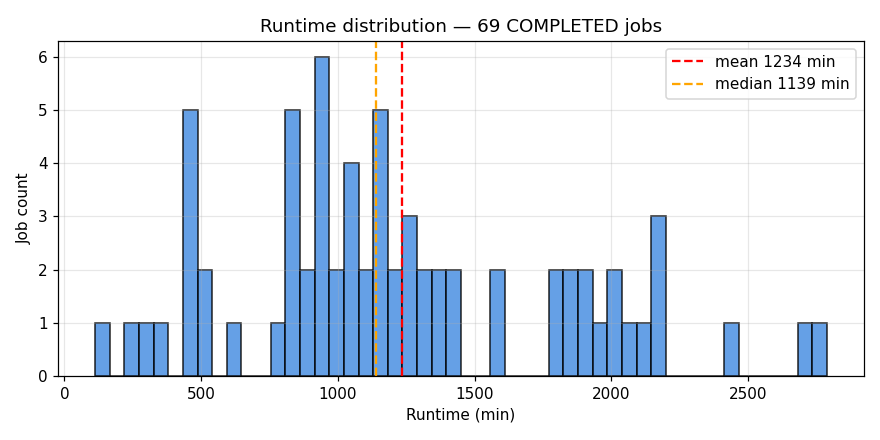
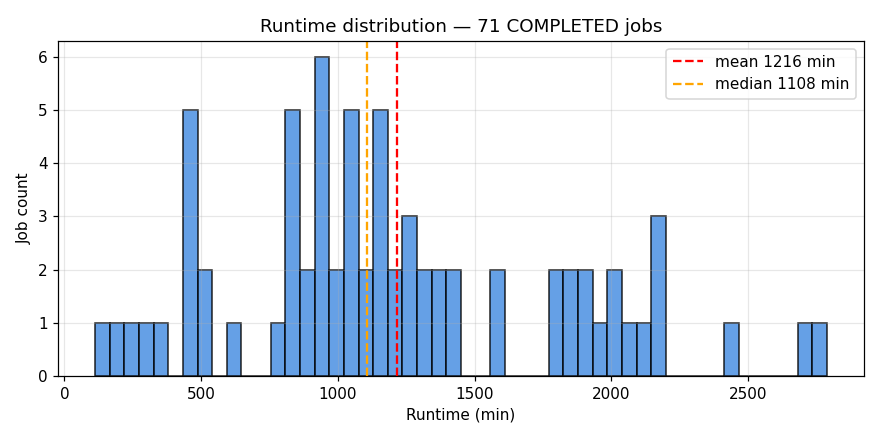
auto: 2026-09-28 10:15:35

diff --git a/index.html b/index.html
@@ -24,39 +24,39 @@ tr:nth-child(even) { background: #fafafa; }
 </style>
 </head><body>
 <h1>AF3 Campaign Dashboard</h1>
-<p class="stamp">Last updated: <strong>2026-09-28 09:15 EDT</strong> · regenerated on the cluster hourly · this page auto-reloads every 30 min</p>
+<p class="stamp">Last updated: <strong>2026-09-28 10:16 EDT</strong> · regenerated on the cluster hourly · this page auto-reloads every 30 min</p>
 
 <div class="cards">
-  <div class="card"><div class="v">21,735</div><div class="l">Total COMPLETED pairs</div></div>
-  <div class="card"><div class="v">4,632</div><div class="l">Done today</div></div>
-  <div class="card"><div class="v">13,607</div><div class="l">Last 24 h rate</div></div>
-  <div class="card"><div class="v">30 / 66</div><div class="l">Alpha jobs running / pending (1 GPU each)</div></div>
-  <div class="card"><div class="v">27 / 9</div><div class="l">Beta jobs running / pending (4× GB200 each)</div></div>
-  <div class="card"><div class="v">12,581</div><div class="l">Beta pairs, last 24 h</div></div>
-  <div class="card"><div class="v">1.0 days</div><div class="l">ETA at last-24h rate (14,015 left)</div></div>
+  <div class="card"><div class="v">22,082</div><div class="l">Total COMPLETED pairs</div></div>
+  <div class="card"><div class="v">4,979</div><div class="l">Done today</div></div>
+  <div class="card"><div class="v">13,633</div><div class="l">Last 24 h rate</div></div>
+  <div class="card"><div class="v">27 / 69</div><div class="l">Alpha jobs running / pending (1 GPU each)</div></div>
+  <div class="card"><div class="v">27 / 10</div><div class="l">Beta jobs running / pending (4× GB200 each)</div></div>
+  <div class="card"><div class="v">12,605</div><div class="l">Beta pairs, last 24 h</div></div>
+  <div class="card"><div class="v">1.0 days</div><div class="l">ETA at last-24h rate (13,668 left)</div></div>
 </div>
 
 <h2>Beta (GB200) jobs</h2>
-<p class='stamp'>Beta snapshot 10 min old (refreshed every 10 min from the Beta login node).</p>
+<p class='stamp'>Beta snapshot 1 min old (refreshed every 10 min from the Beta login node).</p>
 <div class="queue-table">
 <table><thead><tr><th>Job</th><th>State</th><th>Elapsed</th><th>Left</th><th>Pairs done</th><th>Node / reason</th></tr></thead>
-<tbody><tr><td>af3_beta_p187_pk3</td><td>PENDING</td><td>0:00</td><td>1-00:00:00</td><td>0 / 157</td><td>pending: (Priority)</td></tr><tr><td>af3_beta_p180_pk3</td><td>PENDING</td><td>0:00</td><td>1-00:00:00</td><td>0 / 263</td><td>pending: (Priority)</td></tr><tr><td>af3_beta_p183_pk3</td><td>PENDING</td><td>0:00</td><td>1-00:00:00</td><td>0 / 198</td><td>pending: (Priority)</td></tr><tr><td>af3_beta_p175_pk3</td><td>PENDING</td><td>0:00</td><td>1-00:00:00</td><td>0 / 239</td><td>pending: (Priority)</td></tr><tr><td>af3_beta_p178_pk4</td><td>PENDING</td><td>0:00</td><td>1-00:00:00</td><td>0 / 287</td><td>pending: (Priority)</td></tr><tr><td>af3_beta_p164_pk3</td><td>PENDING</td><td>0:00</td><td>1-00:00:00</td><td>0 / 250</td><td>pending: (Priority)</td></tr><tr><td>af3_beta_p170_pk4</td><td>PENDING</td><td>0:00</td><td>1-00:00:00</td><td>0 / 261</td><td>pending: (Priority)</td></tr><tr><td>af3_beta_p173_pk3</td><td>PENDING</td><td>0:00</td><td>1-00:00:00</td><td>0 / 266</td><td>pending: (Priority)</td></tr><tr><td>af3_beta_p162_pk2</td><td>PENDING</td><td>0:00</td><td>1-00:00:00</td><td>0 / 142</td><td>pending: (Priority)</td></tr><tr><td>af3_beta_p236_pk3</td><td>RUNNING</td><td>11:27:06</td><td>12:32:54</td><td>70 / 224</td><td>b1-32-s1-dgx-01-c13</td></tr><tr><td>af3_beta_p334_pk6</td><td>RUNNING</td><td>12:12:20</td><td>11:47:40</td><td>130 / 344</td><td>b1-33-s1-dgx-01-c14</td></tr><tr><td>af3_beta_p244_pk4</td><td>RUNNING</td><td>13:50:21</td><td>10:09:39</td><td>130 / 303</td><td>b3-15-s1-dgx-03-c05</td></tr><tr><td>af3_beta_p269_pk4</td><td>RUNNING</td><td>13:57:53</td><td>10:02:07</td><td>121 / 255</td><td>b2-32-s1-dgx-02-c13</td></tr><tr><td>af3_beta_p240_pk3</td><td>RUNNING</td><td>13:08:07</td><td>10:51:53</td><td>107 / 280</td><td>b3-17-s1-dgx-03-c07</td></tr><tr><td>af3_beta_p339_pk8</td><td>RUNNING</td><td>13:26:13</td><td>10:33:47</td><td>239 / 461</td><td>b1-30-s1-dgx-01-c11</td></tr><tr><td>af3_beta_p330_pk7</td><td>RUNNING</td><td>10:32:51</td><td>13:27:09</td><td>159 / 448</td><td>b1-36-s1-dgx-01-c17</td></tr><tr><td>af3_beta_p233_pk2</td><td>RUNNING</td><td>9:58:43</td><td>14:01:17</td><td>46 / 162</td><td>b3-34-s1-dgx-03-c15</td></tr><tr><td>af3_beta_p256_pk5</td><td>RUNNING</td><td>10:00:43</td><td>13:59:17</td><td>65 / 294</td><td>b2-29-s1-dgx-02-c10</td></tr><tr><td>af3_beta_p373_pk9</td><td>RUNNING</td><td>13:39:47</td><td>10:20:13</td><td>242 / 466</td><td>b2-30-s1-dgx-02-c11</td></tr><tr><td>af3_beta_p194_pk3</td><td>RUNNING</td><td>59:07</td><td>23:00:53</td><td>0 / 296</td><td>b3-36-s1-dgx-03-c17</td></tr><tr><td>af3_beta_p196_pk3</td><td>RUNNING</td><td>1:01:08</td><td>22:58:52</td><td>0 / 194</td><td>b2-33-s1-dgx-02-c14</td></tr><tr><td>af3_beta_p199_pk4</td><td>RUNNING</td><td>1:07:39</td><td>22:52:21</td><td>1 / 322</td><td>b1-17-s1-dgx-01-c07</td></tr><tr><td>af3_beta_p189_pk3</td><td>RUNNING</td><td>3:57</td><td>23:56:03</td><td>0 / 283</td><td>b1-16-s1-dgx-01-c06</td></tr><tr><td>af3_beta_p192_pk4</td><td>RUNNING</td><td>24:31</td><td>23:35:29</td><td>0 / 269</td><td>b2-36-s1-dgx-02-c17</td></tr><tr><td>af3_beta_p204_pk3</td><td>RUNNING</td><td>2:18:58</td><td>21:41:02</td><td>4 / 233</td><td>b2-17-s1-dgx-02-c07</td></tr><tr><td>af3_beta_p201_pk3</td><td>RUNNING</td><td>2:18:28</td><td>21:41:32</td><td>5 / 252</td><td>b2-13-s1-dgx-02-c03</td></tr><tr><td>af3_beta_p347_pk6</td><td>RUNNING</td><td>19:08:19</td><td>4:51:41</td><td>391 / 400</td><td>b2-11-s1-dgx-02-c01</td></tr><tr><td>af3_beta_p220_pk4</td><td>RUNNING</td><td>8:41:20</td><td>15:18:40</td><td>48 / 259</td><td>b2-14-s1-dgx-02-c04</td></tr><tr><td>af3_beta_p225_pk4</td><td>RUNNING</td><td>9:40:08</td><td>14:19:52</td><td>55 / 277</td><td>b3-14-s1-dgx-03-c04</td></tr><tr><td>af3_beta_p229_pk3</td><td>RUNNING</td><td>9:44:09</td><td>14:15:51</td><td>56 / 267</td><td>b2-18-s1-dgx-02-c08</td></tr><tr><td>af3_beta_p232_pk3</td><td>RUNNING</td><td>9:47:40</td><td>14:12:20</td><td>49 / 184</td><td>b3-37-s1-dgx-03-c18</td></tr><tr><td>af3_beta_p221_pk2</td><td>RUNNING</td><td>9:30:05</td><td>14:29:55</td><td>46 / 201</td><td>b3-32-s1-dgx-03-c13</td></tr><tr><td>af3_beta_p217_pk3</td><td>RUNNING</td><td>8:37:19</td><td>15:22:41</td><td>44 / 242</td><td>b1-37-s1-dgx-01-c18</td></tr><tr><td>af3_beta_p208_pk2</td><td>RUNNING</td><td>7:03:25</td><td>16:56:35</td><td>30 / 201</td><td>b2-15-s1-dgx-02-c05</td></tr><tr><td>af3_beta_p214_pk4</td><td>RUNNING</td><td>7:43:36</td><td>16:16:24</td><td>41 / 275</td><td>b1-34-s1-dgx-01-c15</td></tr><tr><td>af3_beta_p207_pk4</td><td>RUNNING</td><td>7:03:25</td><td>16:56:35</td><td>34 / 248</td><td>b1-18-s1-dgx-01-c08</td></tr></tbody></table>
+<tbody><tr><td>af3_beta_p180_pk3</td><td>PENDING</td><td>0:00</td><td>1-00:00:00</td><td>0 / 263</td><td>pending: (Priority)</td></tr><tr><td>af3_beta_p183_pk3</td><td>PENDING</td><td>0:00</td><td>1-00:00:00</td><td>0 / 198</td><td>pending: (Priority)</td></tr><tr><td>af3_beta_p175_pk3</td><td>PENDING</td><td>0:00</td><td>1-00:00:00</td><td>0 / 239</td><td>pending: (Priority)</td></tr><tr><td>af3_beta_p178_pk4</td><td>PENDING</td><td>0:00</td><td>1-00:00:00</td><td>0 / 287</td><td>pending: (Priority)</td></tr><tr><td>af3_beta_p164_pk3</td><td>PENDING</td><td>0:00</td><td>1-00:00:00</td><td>0 / 250</td><td>pending: (Priority)</td></tr><tr><td>af3_beta_p170_pk4</td><td>PENDING</td><td>0:00</td><td>1-00:00:00</td><td>0 / 261</td><td>pending: (Priority)</td></tr><tr><td>af3_beta_p173_pk3</td><td>PENDING</td><td>0:00</td><td>1-00:00:00</td><td>0 / 266</td><td>pending: (Priority)</td></tr><tr><td>af3_beta_p162_pk2</td><td>PENDING</td><td>0:00</td><td>1-00:00:00</td><td>0 / 142</td><td>pending: (Priority)</td></tr><tr><td>af3_beta_p158_pk2</td><td>PENDING</td><td>0:00</td><td>1-00:00:00</td><td>0 / 141</td><td>pending: (Priority)</td></tr><tr><td>af3_beta_p161_pk3</td><td>PENDING</td><td>0:00</td><td>1-00:00:00</td><td>0 / 212</td><td>pending: (Priority)</td></tr><tr><td>af3_beta_p236_pk3</td><td>RUNNING</td><td>12:37:32</td><td>11:22:28</td><td>85 / 224</td><td>b1-32-s1-dgx-01-c13</td></tr><tr><td>af3_beta_p334_pk6</td><td>RUNNING</td><td>13:22:46</td><td>10:37:14</td><td>150 / 344</td><td>b1-33-s1-dgx-01-c14</td></tr><tr><td>af3_beta_p244_pk4</td><td>RUNNING</td><td>15:00:47</td><td>8:59:13</td><td>162 / 303</td><td>b3-15-s1-dgx-03-c05</td></tr><tr><td>af3_beta_p269_pk4</td><td>RUNNING</td><td>15:08:19</td><td>8:51:41</td><td>145 / 255</td><td>b2-32-s1-dgx-02-c13</td></tr><tr><td>af3_beta_p240_pk3</td><td>RUNNING</td><td>14:18:33</td><td>9:41:27</td><td>128 / 280</td><td>b3-17-s1-dgx-03-c07</td></tr><tr><td>af3_beta_p339_pk8</td><td>RUNNING</td><td>14:36:39</td><td>9:23:21</td><td>269 / 461</td><td>b1-30-s1-dgx-01-c11</td></tr><tr><td>af3_beta_p330_pk7</td><td>RUNNING</td><td>11:43:17</td><td>12:16:43</td><td>188 / 448</td><td>b1-36-s1-dgx-01-c17</td></tr><tr><td>af3_beta_p233_pk2</td><td>RUNNING</td><td>11:09:09</td><td>12:50:51</td><td>56 / 162</td><td>b3-34-s1-dgx-03-c15</td></tr><tr><td>af3_beta_p256_pk5</td><td>RUNNING</td><td>11:11:09</td><td>12:48:51</td><td>80 / 294</td><td>b2-29-s1-dgx-02-c10</td></tr><tr><td>af3_beta_p373_pk9</td><td>RUNNING</td><td>14:50:13</td><td>9:09:47</td><td>272 / 466</td><td>b2-30-s1-dgx-02-c11</td></tr><tr><td>af3_beta_p194_pk3</td><td>RUNNING</td><td>2:09:33</td><td>21:50:27</td><td>6 / 296</td><td>b3-36-s1-dgx-03-c17</td></tr><tr><td>af3_beta_p196_pk3</td><td>RUNNING</td><td>2:11:34</td><td>21:48:26</td><td>4 / 194</td><td>b2-33-s1-dgx-02-c14</td></tr><tr><td>af3_beta_p199_pk4</td><td>RUNNING</td><td>2:18:05</td><td>21:41:55</td><td>5 / 322</td><td>b1-17-s1-dgx-01-c07</td></tr><tr><td>af3_beta_p189_pk3</td><td>RUNNING</td><td>1:14:23</td><td>22:45:37</td><td>2 / 283</td><td>b1-16-s1-dgx-01-c06</td></tr><tr><td>af3_beta_p192_pk4</td><td>RUNNING</td><td>1:34:57</td><td>22:25:03</td><td>4 / 269</td><td>b2-36-s1-dgx-02-c17</td></tr><tr><td>af3_beta_p204_pk3</td><td>RUNNING</td><td>3:29:24</td><td>20:30:36</td><td>12 / 233</td><td>b2-17-s1-dgx-02-c07</td></tr><tr><td>af3_beta_p187_pk3</td><td>RUNNING</td><td>1:09:22</td><td>22:50:38</td><td>0 / 157</td><td>b2-31-s1-dgx-02-c12</td></tr><tr><td>af3_beta_p201_pk3</td><td>RUNNING</td><td>3:28:54</td><td>20:31:06</td><td>12 / 252</td><td>b2-13-s1-dgx-02-c03</td></tr><tr><td>af3_beta_p220_pk4</td><td>RUNNING</td><td>9:51:46</td><td>14:08:14</td><td>58 / 259</td><td>b2-14-s1-dgx-02-c04</td></tr><tr><td>af3_beta_p225_pk4</td><td>RUNNING</td><td>10:50:34</td><td>13:09:26</td><td>68 / 277</td><td>b3-14-s1-dgx-03-c04</td></tr><tr><td>af3_beta_p229_pk3</td><td>RUNNING</td><td>10:54:35</td><td>13:05:25</td><td>70 / 267</td><td>b2-18-s1-dgx-02-c08</td></tr><tr><td>af3_beta_p232_pk3</td><td>RUNNING</td><td>10:58:06</td><td>13:01:54</td><td>57 / 184</td><td>b3-37-s1-dgx-03-c18</td></tr><tr><td>af3_beta_p221_pk2</td><td>RUNNING</td><td>10:40:31</td><td>13:19:29</td><td>55 / 201</td><td>b3-32-s1-dgx-03-c13</td></tr><tr><td>af3_beta_p217_pk3</td><td>RUNNING</td><td>9:47:45</td><td>14:12:15</td><td>52 / 242</td><td>b1-37-s1-dgx-01-c18</td></tr><tr><td>af3_beta_p208_pk2</td><td>RUNNING</td><td>8:13:51</td><td>15:46:09</td><td>38 / 201</td><td>b2-15-s1-dgx-02-c05</td></tr><tr><td>af3_beta_p214_pk4</td><td>RUNNING</td><td>8:54:02</td><td>15:05:58</td><td>49 / 275</td><td>b1-34-s1-dgx-01-c15</td></tr><tr><td>af3_beta_p207_pk4</td><td>RUNNING</td><td>8:13:51</td><td>15:46:09</td><td>44 / 248</td><td>b1-18-s1-dgx-01-c08</td></tr></tbody></table>
 </div>
 
 <h2>Alpha live queue</h2>
 <div class="plots">
   <div>
-    <h3>RUNNING (30)</h3>
+    <h3>RUNNING (27)</h3>
     <div class="queue-table">
       <table><thead><tr><th>Job</th><th>Elapsed</th><th>Left</th><th>Reason / Node</th></tr></thead>
-      <tbody><tr><td>af3_p103_b002</td><td>23:10:17</td><td>49:43</td><td>alphagpu54</td></tr><tr><td>af3_p111_b003</td><td>13:07:15</td><td>10:52:45</td><td>alphagpu54</td></tr><tr><td>af3_p111_b002</td><td>13:52:13</td><td>10:07:47</td><td>alphagpu51</td></tr><tr><td>af3_p108_b002</td><td>19:31:07</td><td>4:28:53</td><td>alphagpu52</td></tr><tr><td>af3_p110_b003</td><td>16:43:09</td><td>7:16:51</td><td>alphagpu52</td></tr><tr><td>af3_p110_b002</td><td>16:49:38</td><td>7:10:22</td><td>alphagpu51</td></tr><tr><td>af3_p110_b001</td><td>17:38:52</td><td>6:21:08</td><td>alphagpu51</td></tr><tr><td>af3_p111_b001</td><td>15:18:38</td><td>8:41:22</td><td>alphagpu52</td></tr><tr><td>af3_p085_b001</td><td>12:33:59</td><td>11:26:01</td><td>alphagpu52</td></tr><tr><td>af3_p108_b001</td><td>21:11:15</td><td>2:48:45</td><td>alphagpu54</td></tr><tr><td>af3_p112_b003</td><td>11:51:30</td><td>12:08:30</td><td>alphagpu54</td></tr><tr><td>af3_p112_b002</td><td>12:01:57</td><td>11:58:03</td><td>alphagpu53</td></tr><tr><td>af3_p112_b001</td><td>12:03:18</td><td>11:56:42</td><td>alphagpu53</td></tr><tr><td>af3_p083_b001</td><td>16:34:26</td><td>7:25:34</td><td>alphagpu54</td></tr><tr><td>af3_p113_b002</td><td>9:41:09</td><td>14:18:51</td><td>alphagpu54</td></tr><tr><td>af3_p113_b001</td><td>9:45:16</td><td>14:14:44</td><td>alphagpu52</td></tr><tr><td>af3_p113_b003</td><td>8:20:56</td><td>15:39:04</td><td>alphagpu53</td></tr><tr><td>af3_p094_b001</td><td>6:37:55</td><td>17:22:05</td><td>alphagpu52</td></tr><tr><td>af3_p061_b001</td><td>7:49:49</td><td>16:10:11</td><td>alphagpu54</td></tr><tr><td>af3_p062_b002</td><td>5:50:53</td><td>18:09:07</td><td>alphagpu51</td></tr><tr><td>af3_p062_b001</td><td>6:13:51</td><td>17:46:09</td><td>alphagpu51</td></tr><tr><td>af3_p119_b003</td><td>4:25:25</td><td>19:34:35</td><td>alphagpu51</td></tr><tr><td>af3_p119_b002</td><td>5:38:57</td><td>18:21:03</td><td>alphagpu51</td></tr><tr><td>af3_p119_b001</td><td>5:44:35</td><td>18:15:25</td><td>alphagpu53</td></tr><tr><td>af3_p120_b002</td><td>50:35</td><td>23:09:25</td><td>alphagpu52</td></tr><tr><td>af3_p120_b001</td><td>1:23:38</td><td>22:36:22</td><td>alphagpu53</td></tr><tr><td>af3_p065_b002</td><td>3:40:09</td><td>20:19:51</td><td>alphagpu53</td></tr><tr><td>af3_p065_b001</td><td>4:10:34</td><td>19:49:26</td><td>alphagpu53</td></tr><tr><td>af3_p097_b001</td><td>2:54:05</td><td>21:05:55</td><td>alphagpu54</td></tr><tr><td>af3_p096_b001</td><td>3:04:21</td><td>20:55:39</td><td>alphagpu51</td></tr></tbody></table>
+      <tbody><tr><td>af3_p111_b003</td><td>14:08:28</td><td>9:51:32</td><td>alphagpu54</td></tr><tr><td>af3_p111_b002</td><td>14:53:26</td><td>9:06:34</td><td>alphagpu51</td></tr><tr><td>af3_p108_b002</td><td>20:32:20</td><td>3:27:40</td><td>alphagpu52</td></tr><tr><td>af3_p110_b002</td><td>17:50:51</td><td>6:09:09</td><td>alphagpu51</td></tr><tr><td>af3_p110_b001</td><td>18:40:05</td><td>5:19:55</td><td>alphagpu51</td></tr><tr><td>af3_p111_b001</td><td>16:19:51</td><td>7:40:09</td><td>alphagpu52</td></tr><tr><td>af3_p085_b001</td><td>13:35:12</td><td>10:24:48</td><td>alphagpu52</td></tr><tr><td>af3_p108_b001</td><td>22:12:28</td><td>1:47:32</td><td>alphagpu54</td></tr><tr><td>af3_p112_b003</td><td>12:52:43</td><td>11:07:17</td><td>alphagpu54</td></tr><tr><td>af3_p112_b002</td><td>13:03:10</td><td>10:56:50</td><td>alphagpu53</td></tr><tr><td>af3_p112_b001</td><td>13:04:31</td><td>10:55:29</td><td>alphagpu53</td></tr><tr><td>af3_p083_b001</td><td>17:35:39</td><td>6:24:21</td><td>alphagpu54</td></tr><tr><td>af3_p113_b002</td><td>10:42:22</td><td>13:17:38</td><td>alphagpu54</td></tr><tr><td>af3_p113_b001</td><td>10:46:29</td><td>13:13:31</td><td>alphagpu52</td></tr><tr><td>af3_p113_b003</td><td>9:22:09</td><td>14:37:51</td><td>alphagpu53</td></tr><tr><td>af3_p094_b001</td><td>7:39:08</td><td>16:20:52</td><td>alphagpu52</td></tr><tr><td>af3_p061_b001</td><td>8:51:02</td><td>15:08:58</td><td>alphagpu54</td></tr><tr><td>af3_p062_b002</td><td>6:52:06</td><td>17:07:54</td><td>alphagpu51</td></tr><tr><td>af3_p062_b001</td><td>7:15:04</td><td>16:44:56</td><td>alphagpu51</td></tr><tr><td>af3_p119_b003</td><td>5:26:38</td><td>18:33:22</td><td>alphagpu51</td></tr><tr><td>af3_p119_b002</td><td>6:40:10</td><td>17:19:50</td><td>alphagpu51</td></tr><tr><td>af3_p119_b001</td><td>6:45:48</td><td>17:14:12</td><td>alphagpu53</td></tr><tr><td>af3_p120_b002</td><td>1:51:48</td><td>22:08:12</td><td>alphagpu52</td></tr><tr><td>af3_p120_b001</td><td>2:24:51</td><td>21:35:09</td><td>alphagpu53</td></tr><tr><td>af3_p065_b002</td><td>4:41:22</td><td>19:18:38</td><td>alphagpu53</td></tr><tr><td>af3_p065_b001</td><td>5:11:47</td><td>18:48:13</td><td>alphagpu53</td></tr><tr><td>af3_p096_b001</td><td>4:05:34</td><td>19:54:26</td><td>alphagpu51</td></tr></tbody></table>
     </div>
   </div>
   <div>
-    <h3>PENDING (66)</h3>
+    <h3>PENDING (69)</h3>
     <div class="queue-table">
       <table><thead><tr><th>Job</th><th>Wait</th><th>Limit</th><th>Reason</th></tr></thead>
-      <tbody><tr><td>af3_p120_b003</td><td>0:00</td><td>1-00:00:00</td><td>(QOSMaxJobsPerUserLimit)</td></tr><tr><td>af3_p098_b001</td><td>0:00</td><td>1-00:00:00</td><td>(QOSMaxJobsPerUserLimit)</td></tr><tr><td>af3_p121_b003</td><td>0:00</td><td>1-00:00:00</td><td>(QOSMaxJobsPerUserLimit)</td></tr><tr><td>af3_p121_b002</td><td>0:00</td><td>1-00:00:00</td><td>(QOSMaxJobsPerUserLimit)</td></tr><tr><td>af3_p121_b001</td><td>0:00</td><td>1-00:00:00</td><td>(QOSMaxJobsPerUserLimit)</td></tr><tr><td>af3_p123_b003</td><td>0:00</td><td>1-00:00:00</td><td>(QOSMaxJobsPerUserLimit)</td></tr><tr><td>af3_p123_b002</td><td>0:00</td><td>1-00:00:00</td><td>(QOSMaxJobsPerUserLimit)</td></tr><tr><td>af3_p123_b001</td><td>0:00</td><td>1-00:00:00</td><td>(QOSMaxJobsPerUserLimit)</td></tr><tr><td>af3_p124_b003</td><td>0:00</td><td>1-00:00:00</td><td>(QOSMaxJobsPerUserLimit)</td></tr><tr><td>af3_p124_b002</td><td>0:00</td><td>1-00:00:00</td><td>(QOSMaxJobsPerUserLimit)</td></tr><tr><td>af3_p124_b001</td><td>0:00</td><td>1-00:00:00</td><td>(QOSMaxJobsPerUserLimit)</td></tr><tr><td>af3_p099_b001</td><td>0:00</td><td>1-00:00:00</td><td>(QOSMaxJobsPerUserLimit)</td></tr><tr><td>af3_p100_b001</td><td>0:00</td><td>1-00:00:00</td><td>(QOSMaxJobsPerUserLimit)</td></tr><tr><td>af3_p101_b001</td><td>0:00</td><td>1-00:00:00</td><td>(QOSMaxJobsPerUserLimit)</td></tr><tr><td>af3_p102_b001</td><td>0:00</td><td>1-00:00:00</td><td>(QOSMaxJobsPerUserLimit)</td></tr><tr><td>af3_p126_b003</td><td>0:00</td><td>1-00:00:00</td><td>(QOSMaxJobsPerUserLimit)</td></tr><tr><td>af3_p126_b002</td><td>0:00</td><td>1-00:00:00</td><td>(QOSMaxJobsPerUserLimit)</td></tr><tr><td>af3_p126_b001</td><td>0:00</td><td>1-00:00:00</td><td>(QOSMaxJobsPerUserLimit)</td></tr><tr><td>af3_p066_b002</td><td>0:00</td><td>2-00:00:00</td><td>(Priority)</td></tr><tr><td>af3_p066_b001</td><td>0:00</td><td>2-00:00:00</td><td>(Priority)</td></tr><tr><td>af3_p071_b002</td><td>0:00</td><td>2-00:00:00</td><td>(Priority)</td></tr><tr><td>af3_p071_b001</td><td>0:00</td><td>2-00:00:00</td><td>(Priority)</td></tr><tr><td>af3_p070_b002</td><td>0:00</td><td>2-00:00:00</td><td>(Priority)</td></tr><tr><td>af3_p070_b001</td><td>0:00</td><td>2-00:00:00</td><td>(Priority)</td></tr><tr><td>af3_p069_b002</td><td>0:00</td><td>2-00:00:00</td><td>(Priority)</td></tr><tr><td>af3_p069_b001</td><td>0:00</td><td>2-00:00:00</td><td>(Priority)</td></tr><tr><td>af3_p068_b002</td><td>0:00</td><td>2-00:00:00</td><td>(Priority)</td></tr><tr><td>af3_p068_b001</td><td>0:00</td><td>2-00:00:00</td><td>(Priority)</td></tr><tr><td>af3_p067_b002</td><td>0:00</td><td>2-00:00:00</td><td>(Priority)</td></tr><tr><td>af3_p067_b001</td><td>0:00</td><td>2-00:00:00</td><td>(Priority)</td></tr><tr><td>af3_p073_b002</td><td>0:00</td><td>2-00:00:00</td><td>(Priority)</td></tr><tr><td>af3_p073_b001</td><td>0:00</td><td>2-00:00:00</td><td>(Priority)</td></tr><tr><td>af3_p072_b002</td><td>0:00</td><td>2-00:00:00</td><td>(Priority)</td></tr><tr><td>af3_p072_b001</td><td>0:00</td><td>2-00:00:00</td><td>(Priority)</td></tr><tr><td>af3_p078_b002</td><td>0:00</td><td>2-00:00:00</td><td>(Priority)</td></tr><tr><td>af3_p078_b001</td><td>0:00</td><td>2-00:00:00</td><td>(Priority)</td></tr><tr><td>af3_p077_b002</td><td>0:00</td><td>2-00:00:00</td><td>(Priority)</td></tr><tr><td>af3_p077_b001</td><td>0:00</td><td>2-00:00:00</td><td>(Priority)</td></tr><tr><td>af3_p076_b002</td><td>0:00</td><td>2-00:00:00</td><td>(Priority)</td></tr><tr><td>af3_p076_b001</td><td>0:00</td><td>2-00:00:00</td><td>(Priority)</td></tr><tr><td>af3_p075_b002</td><td>0:00</td><td>2-00:00:00</td><td>(Priority)</td></tr><tr><td>af3_p075_b001</td><td>0:00</td><td>2-00:00:00</td><td>(Priority)</td></tr><tr><td>af3_p074_b002</td><td>0:00</td><td>2-00:00:00</td><td>(Priority)</td></tr><tr><td>af3_p074_b001</td><td>0:00</td><td>2-00:00:00</td><td>(Priority)</td></tr><tr><td>af3_p082_b002</td><td>0:00</td><td>2-00:00:00</td><td>(Priority)</td></tr><tr><td>af3_p082_b001</td><td>0:00</td><td>2-00:00:00</td><td>(Priority)</td></tr><tr><td>af3_p080_b002</td><td>0:00</td><td>2-00:00:00</td><td>(Priority)</td></tr><tr><td>af3_p080_b001</td><td>0:00</td><td>2-00:00:00</td><td>(Priority)</td></tr><tr><td>af3_p104_b002</td><td>0:00</td><td>2-00:00:00</td><td>(Priority)</td></tr><tr><td>af3_p104_b001</td><td>0:00</td><td>2-00:00:00</td><td>(Priority)</td></tr><tr><td>af3_p107_b002</td><td>0:00</td><td>2-00:00:00</td><td>(Priority)</td></tr><tr><td>af3_p107_b001</td><td>0:00</td><td>2-00:00:00</td><td>(Priority)</td></tr><tr><td>af3_p106_b002</td><td>0:00</td><td>2-00:00:00</td><td>(Priority)</td></tr><tr><td>af3_p106_b001</td><td>0:00</td><td>2-00:00:00</td><td>(Priority)</td></tr><tr><td>af3_p090_b001</td><td>0:00</td><td>2-00:00:00</td><td>(Priority)</td></tr><tr><td>af3_p060_b001</td><td>0:00</td><td>2-00:00:00</td><td>(Priority)</td></tr><tr><td>af3_p114_b002</td><td>0:00</td><td>2-00:00:00</td><td>(Priority)</td></tr><tr><td>af3_p114_b001</td><td>0:00</td><td>2-00:00:00</td><td>(Priority)</td></tr><tr><td>af3_p115_b002</td><td>0:00</td><td>2-00:00:00</td><td>(Priority)</td></tr><tr><td>af3_p115_b001</td><td>0:00</td><td>2-00:00:00</td><td>(Priority)</td></tr><tr><td>af3_p118_b002</td><td>0:00</td><td>2-00:00:00</td><td>(Priority)</td></tr><tr><td>af3_p118_b001</td><td>0:00</td><td>2-00:00:00</td><td>(Priority)</td></tr><tr><td>af3_p063_b002</td><td>0:00</td><td>2-00:00:00</td><td>(Priority)</td></tr><tr><td>af3_p063_b001</td><td>0:00</td><td>2-00:00:00</td><td>(Priority)</td></tr><tr><td>af3_p064_b002</td><td>0:00</td><td>2-00:00:00</td><td>(Priority)</td></tr><tr><td>af3_p064_b001</td><td>0:00</td><td>2-00:00:00</td><td>(Priority)</td></tr></tbody></table>
+      <tbody><tr><td>af3_p120_b003</td><td>0:00</td><td>1-00:00:00</td><td>(Priority)</td></tr><tr><td>af3_p098_b001</td><td>0:00</td><td>1-00:00:00</td><td>(Priority)</td></tr><tr><td>af3_p121_b003</td><td>0:00</td><td>1-00:00:00</td><td>(Priority)</td></tr><tr><td>af3_p121_b001</td><td>0:00</td><td>1-00:00:00</td><td>(Priority)</td></tr><tr><td>af3_p121_b002</td><td>0:00</td><td>1-00:00:00</td><td>(Priority)</td></tr><tr><td>af3_p123_b002</td><td>0:00</td><td>1-00:00:00</td><td>(Priority)</td></tr><tr><td>af3_p123_b003</td><td>0:00</td><td>1-00:00:00</td><td>(Priority)</td></tr><tr><td>af3_p123_b001</td><td>0:00</td><td>1-00:00:00</td><td>(Priority)</td></tr><tr><td>af3_p124_b002</td><td>0:00</td><td>1-00:00:00</td><td>(Priority)</td></tr><tr><td>af3_p124_b003</td><td>0:00</td><td>1-00:00:00</td><td>(Priority)</td></tr><tr><td>af3_p124_b001</td><td>0:00</td><td>1-00:00:00</td><td>(Priority)</td></tr><tr><td>af3_p099_b001</td><td>0:00</td><td>1-00:00:00</td><td>(Priority)</td></tr><tr><td>af3_p100_b001</td><td>0:00</td><td>1-00:00:00</td><td>(Priority)</td></tr><tr><td>af3_p101_b001</td><td>0:00</td><td>1-00:00:00</td><td>(Priority)</td></tr><tr><td>af3_p102_b001</td><td>0:00</td><td>1-00:00:00</td><td>(Priority)</td></tr><tr><td>af3_p126_b003</td><td>0:00</td><td>1-00:00:00</td><td>(Priority)</td></tr><tr><td>af3_p126_b002</td><td>0:00</td><td>1-00:00:00</td><td>(Priority)</td></tr><tr><td>af3_p126_b001</td><td>0:00</td><td>1-00:00:00</td><td>(Priority)</td></tr><tr><td>af3_p127_b003</td><td>0:00</td><td>1-00:00:00</td><td>(Priority)</td></tr><tr><td>af3_p127_b001</td><td>0:00</td><td>1-00:00:00</td><td>(Priority)</td></tr><tr><td>af3_p127_b002</td><td>0:00</td><td>1-00:00:00</td><td>(Priority)</td></tr><tr><td>af3_p071_b002</td><td>0:00</td><td>2-00:00:00</td><td>(Priority)</td></tr><tr><td>af3_p071_b001</td><td>0:00</td><td>2-00:00:00</td><td>(Priority)</td></tr><tr><td>af3_p070_b002</td><td>0:00</td><td>2-00:00:00</td><td>(Priority)</td></tr><tr><td>af3_p070_b001</td><td>0:00</td><td>2-00:00:00</td><td>(Priority)</td></tr><tr><td>af3_p069_b002</td><td>0:00</td><td>2-00:00:00</td><td>(Priority)</td></tr><tr><td>af3_p069_b001</td><td>0:00</td><td>2-00:00:00</td><td>(Priority)</td></tr><tr><td>af3_p068_b002</td><td>0:00</td><td>2-00:00:00</td><td>(Priority)</td></tr><tr><td>af3_p068_b001</td><td>0:00</td><td>2-00:00:00</td><td>(Priority)</td></tr><tr><td>af3_p067_b002</td><td>0:00</td><td>2-00:00:00</td><td>(Priority)</td></tr><tr><td>af3_p067_b001</td><td>0:00</td><td>2-00:00:00</td><td>(Priority)</td></tr><tr><td>af3_p066_b002</td><td>0:00</td><td>2-00:00:00</td><td>(Priority)</td></tr><tr><td>af3_p066_b001</td><td>0:00</td><td>2-00:00:00</td><td>(Priority)</td></tr><tr><td>af3_p078_b002</td><td>0:00</td><td>2-00:00:00</td><td>(Priority)</td></tr><tr><td>af3_p078_b001</td><td>0:00</td><td>2-00:00:00</td><td>(Priority)</td></tr><tr><td>af3_p077_b002</td><td>0:00</td><td>2-00:00:00</td><td>(Priority)</td></tr><tr><td>af3_p077_b001</td><td>0:00</td><td>2-00:00:00</td><td>(Priority)</td></tr><tr><td>af3_p076_b002</td><td>0:00</td><td>2-00:00:00</td><td>(Priority)</td></tr><tr><td>af3_p076_b001</td><td>0:00</td><td>2-00:00:00</td><td>(Priority)</td></tr><tr><td>af3_p075_b002</td><td>0:00</td><td>2-00:00:00</td><td>(Priority)</td></tr><tr><td>af3_p075_b001</td><td>0:00</td><td>2-00:00:00</td><td>(Priority)</td></tr><tr><td>af3_p074_b002</td><td>0:00</td><td>2-00:00:00</td><td>(Priority)</td></tr><tr><td>af3_p074_b001</td><td>0:00</td><td>2-00:00:00</td><td>(Priority)</td></tr><tr><td>af3_p073_b002</td><td>0:00</td><td>2-00:00:00</td><td>(Priority)</td></tr><tr><td>af3_p073_b001</td><td>0:00</td><td>2-00:00:00</td><td>(Priority)</td></tr><tr><td>af3_p072_b002</td><td>0:00</td><td>2-00:00:00</td><td>(Priority)</td></tr><tr><td>af3_p072_b001</td><td>0:00</td><td>2-00:00:00</td><td>(Priority)</td></tr><tr><td>af3_p080_b002</td><td>0:00</td><td>2-00:00:00</td><td>(Priority)</td></tr><tr><td>af3_p080_b001</td><td>0:00</td><td>2-00:00:00</td><td>(Priority)</td></tr><tr><td>af3_p082_b002</td><td>0:00</td><td>2-00:00:00</td><td>(Priority)</td></tr><tr><td>af3_p082_b001</td><td>0:00</td><td>2-00:00:00</td><td>(Priority)</td></tr><tr><td>af3_p104_b002</td><td>0:00</td><td>2-00:00:00</td><td>(Priority)</td></tr><tr><td>af3_p104_b001</td><td>0:00</td><td>2-00:00:00</td><td>(Priority)</td></tr><tr><td>af3_p106_b002</td><td>0:00</td><td>2-00:00:00</td><td>(Priority)</td></tr><tr><td>af3_p106_b001</td><td>0:00</td><td>2-00:00:00</td><td>(Priority)</td></tr><tr><td>af3_p107_b002</td><td>0:00</td><td>2-00:00:00</td><td>(Priority)</td></tr><tr><td>af3_p107_b001</td><td>0:00</td><td>2-00:00:00</td><td>(Priority)</td></tr><tr><td>af3_p090_b001</td><td>0:00</td><td>2-00:00:00</td><td>(Priority)</td></tr><tr><td>af3_p060_b001</td><td>0:00</td><td>2-00:00:00</td><td>(Priority)</td></tr><tr><td>af3_p114_b002</td><td>0:00</td><td>2-00:00:00</td><td>(Priority)</td></tr><tr><td>af3_p114_b001</td><td>0:00</td><td>2-00:00:00</td><td>(Priority)</td></tr><tr><td>af3_p115_b002</td><td>0:00</td><td>2-00:00:00</td><td>(Priority)</td></tr><tr><td>af3_p115_b001</td><td>0:00</td><td>2-00:00:00</td><td>(Priority)</td></tr><tr><td>af3_p118_b002</td><td>0:00</td><td>2-00:00:00</td><td>(Priority)</td></tr><tr><td>af3_p118_b001</td><td>0:00</td><td>2-00:00:00</td><td>(Priority)</td></tr><tr><td>af3_p063_b002</td><td>0:00</td><td>2-00:00:00</td><td>(Priority)</td></tr><tr><td>af3_p063_b001</td><td>0:00</td><td>2-00:00:00</td><td>(Priority)</td></tr><tr><td>af3_p064_b002</td><td>0:00</td><td>2-00:00:00</td><td>(Priority)</td></tr><tr><td>af3_p064_b001</td><td>0:00</td><td>2-00:00:00</td><td>(Priority)</td></tr></tbody></table>
     </div>
   </div>
 </div>
@@ -72,7 +72,7 @@ tr:nth-child(even) { background: #fafafa; }
 </div>
 
 <h2>All-time job state breakdown</h2>
-<table><thead><tr><th>State</th><th>Count</th></tr></thead><tbody><tr><td>COMPLETED</td><td>69</td></tr><tr><td>PENDING</td><td>66</td></tr><tr><td>TIMEOUT</td><td>37</td></tr><tr><td>RUNNING</td><td>30</td></tr></tbody></table>
+<table><thead><tr><th>State</th><th>Count</th></tr></thead><tbody><tr><td>COMPLETED</td><td>71</td></tr><tr><td>PENDING</td><td>69</td></tr><tr><td>TIMEOUT</td><td>38</td></tr><tr><td>RUNNING</td><td>27</td></tr></tbody></table>
 
 <p class="stamp"><small>Generated by <code>generate.py</code> on the SUNY HPC cluster.
 Source / regeneration policy at <a href="https://github.com/matvei-lukianov/af3-dashboard">github.com/matvei-lukianov/af3-dashboard</a></small></p>
